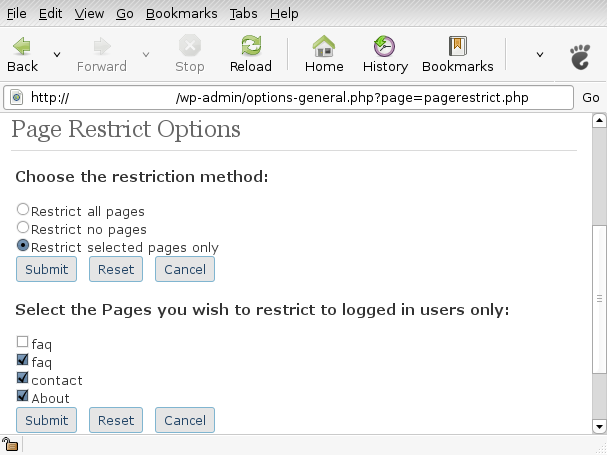
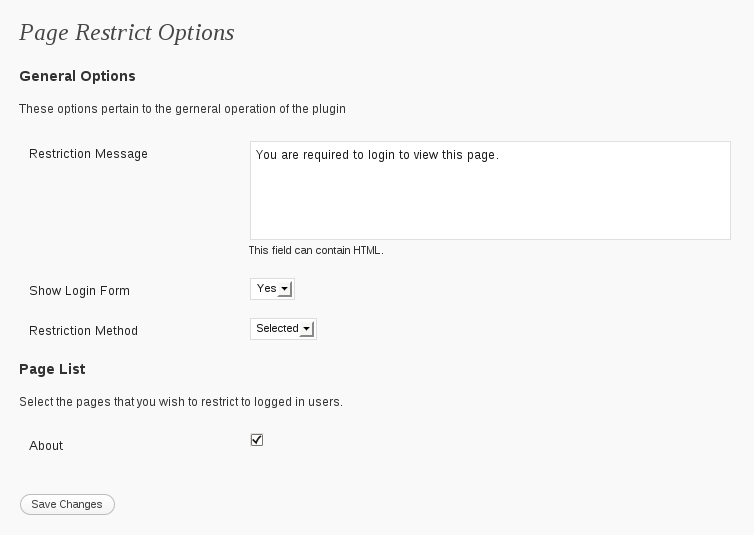
Look at the diff, new screenshot for admin, updated admin styling, new meta box, opt in/out of login form, restrict comments on restricted pages, restrict search results.
git-svn-id: https://plugins.svn.wordpress.org/pagerestrict/trunk@96540 b8457f37-d9ea-0310-8a92-e5e31aec5664

diff --git a/inc/admin.php b/inc/admin.php
@@ -5,14 +5,23 @@ Plugin URI: http://sivel.net/wordpress/
 */
 
 //
-$pr_version = '1.5.8.0';
+$pr_version = '1.6b2';
+
+// Full path and plugin basename of the main plugin file
+$pr_plugin_file = dirname ( dirname ( __FILE__ ) ) . '/pagerestrict.php';
+$pr_plugin_basename = plugin_basename ( $pr_plugin_file );
+
+load_plugin_textdomain( 'pagerestrict', FALSE, '/pagerestrict/lang' );
 
 // Check the version in the options table and if less than this version perform update
 function pr_ver_check () {
 	global $pr_version;
 	if ( ( pr_get_opt ( 'version' ) < $pr_version ) || ( ! pr_get_opt ( 'version' ) ) ) :
 		$pr_options['version'] = $pr_version;
-		$pr_options['pages'] = explode ( ',' , pr_get_opt ( 'pages' ) );
+		if ( ! is_array ( pr_get_opt ( 'pages' ) ) )
+			$pr_options['pages'] = explode ( ',' , pr_get_opt ( 'pages' ) );
+		else
+			$pr_options['pages'] = pr_get_opt ( 'pages' );
 		$pr_options['method'] = pr_get_opt ( 'method' );
 		$pr_options['message'] = 'You are required to login to view this page.';
 		$pr_options['loginform'] = true;
@@ -43,18 +52,32 @@ function pr_delete () {
 
 // Add the options page
 function pr_options_page () {
-	add_options_page ( 'Page Restrict' , 'Page Restrict' , 'publish_pages' , 'pagerestrict' , 'pr_admin_page' );
+	global $pr_plugin_basename;
+	if ( current_user_can ( 'edit_others_pages' ) && function_exists ( 'add_options_page' ) ) :
+		add_options_page ( 'Page Restrict' , 'Page Restrict' , 'publish_pages' , 'pagerestrict' , 'pr_admin_page' );
+		add_filter("plugin_action_links_$pr_plugin_basename", 'pr_filter_plugin_actions' );
+	endif;
+
+}
+
+// Add the setting link to the plugin actions
+function pr_filter_plugin_actions ( $links ) {
+        $settings_link = '<a href="options-general.php?page=pagerestrict">' . __( 'Settings' ) . '</a>';
+        array_unshift( $links, $settings_link );
+        return $links;
 }
 
 // The options page
 function pr_admin_page () {
 	pr_ver_check ();
-	if ( $_POST['action'] == 'update' ) :
+	if ( $_POST && $_POST['action'] == 'update' ) :
 		if ( $_POST['update'] == 'pages' ) :
 			$page_ids = $_POST['page_id'];
 		else :
 			$page_ids = pr_get_opt ( 'pages' );	
 		endif;
+		if ( ! is_array ( $page_ids ) ) 
+			$page_ids = array ();
 		$pr_options['pages'] = $page_ids;
 		$pr_method = $_POST['method'];
 		$pr_options['method'] = $pr_method;
@@ -69,6 +92,8 @@ function pr_admin_page () {
 		echo '<div id="message" class="updated fade"><p><strong>Settings saved.</strong></p></div>';
 	else :
 		$page_ids = pr_get_opt ( 'pages' );
+                if ( ! is_array ( $page_ids ) )
+                        $page_ids = array ();
 		$pr_method = pr_get_opt ( 'method' );
 		$pr_message = pr_get_opt ( 'message' );
 	endif;
@@ -154,6 +179,9 @@ function pr_admin_page () {
  */
 function page_restriction_status_meta_box ( $post ) {
 	$post_ID = $post->ID;
+	$page_ids = pr_get_opt ( 'pages' );
+	if ( ! is_array ( $page_ids ) )
+		$page_ids = array ();
 ?>
 	<p>
 		<input name="pr" type="hidden" value="update" />

diff --git a/pagerestrict.php b/pagerestrict.php
@@ -5,7 +5,7 @@ Plugin URI: http://sivel.net/wordpress/
 Description: Restrict certain pages to logged in users
 Author: Matt Martz <mdmartz@sivel.net>
 Author URI: http://sivel.net/
-Version: 1.5.8.1
+Version: 1.6b2
 
 	Copyright (c) 2008 Matt Martz (http://sivel.net)
         Page Restrict is released under the GNU Lesser General Public License (LGPL)
@@ -42,6 +42,8 @@ function pr_page_restrict ( $pr_page_content ) {
 			$pr_page_content = '
 				<p>' . pr_get_opt ( 'message' )  . '</p>';
 			if ( pr_get_opt ( 'loginform' ) == true ) :
+				if ( ! isset ( $user_login ) )
+					$user_login = '';
 				$pr_page_content .= '
 				<form style="text-align: left;" action="' . get_bloginfo ( 'url' ) . '/wp-login.php" method="post">
 					<p>
@@ -61,6 +63,7 @@ function pr_page_restrict ( $pr_page_content ) {
 				$pr_page_content .= '<a href="' . get_bloginfo ( 'url' ) . '/wp-login.php?action=lostpassword">Lost your password?</a>
 				</p>
 				';
+				$post->comment_status = 'closed';
 			endif;
 		elseif ( in_array ( $post->ID , pr_get_opt ( 'pages' ) ) && ( is_archive () || is_search () ) ) :
                         $pr_page_content = '<p>' . pr_get_opt ( 'message' )  . '</p>';
@@ -70,10 +73,22 @@ function pr_page_restrict ( $pr_page_content ) {
 	return $pr_page_content;
 }
 
+function pr_comment_restrict ( $pr_comment_array ) {
+        global $user_ID, $post;
+        get_currentuserinfo ();
+        if ( ! $user_ID  && is_array ( pr_get_opt ( 'pages' ) ) ) :
+                if ( ( ( is_page ( pr_get_opt ( 'pages' ) ) ) && ( pr_get_opt ( 'method' ) != 'none' ) ) || ( ( is_page () ) && ( pr_get_opt ( 'method' ) == 'all' ) ) ):
+			$pr_comment_array = array();
+		endif;
+	endif;
+	return $pr_comment_array;
+}
+
 // Add Actions
 add_action( 'send_headers' , 'pr_no_cache_headers' );
 
 // Add Filters
 add_filter ( 'the_content' , 'pr_page_restrict' , 50 );
 add_filter ( 'the_excerpt' , 'pr_page_restrict' , 50 );
+add_filter ( 'comments_array' , 'pr_comment_restrict' , 50 );
 ?>
